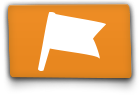
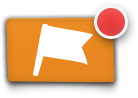
filter button switchy thinger. need moar jmapz.

diff --git a/belugapad/JMap.m b/belugapad/JMap.m
@@ -53,7 +53,7 @@ static CGPoint kStartMapPos={-611, 3713};
 const CGSize kLogOutBtnSize = { 80.0f, 33.0f };
 static CGRect debugButtonBounds={{950, 0}, {100, 50}};
 
-typedef enum {
+typedef enum  {
     kJuiStateNodeMap,
     kJuiStateNodeSliceTransition,
     kJuiStateNodeSlice
@@ -351,7 +351,14 @@ typedef enum {
     [foreLayer addChild:topsprite];
     
     //filter button
-    filterButtonSprite=[CCSprite spriteWithFile:BUNDLE_FULL_PATH(@"/images/jmap/flag_button_orange.png")];
+    filterButtonType=@"";
+    if(filterTotalFlagCount>9)
+        filterButtonType=@"2";
+    
+    NSString *filterButtonFileName=[NSString stringWithFormat:@"/images/jmap/flag_button_orange%@.png", filterButtonType];
+    
+    filterButtonSprite=[CCSprite spriteWithFile:BUNDLE_FULL_PATH(filterButtonFileName)];
+    
     [filterButtonSprite setPosition:ccp(cx+200, 2*cy-(65.0f/2))];
     [foreLayer addChild:filterButtonSprite];
 }
@@ -1525,6 +1532,14 @@ typedef enum {
     else
     {
         filteredToAssignedNodes=YES;
+        
+        filterButtonType=@"";
+        if(filterTotalFlagCount>9)
+            filterButtonType=@"2";
+        
+        NSString *filterButtonFileName=[NSString stringWithFormat:@"/images/jmap/flag_button_in%@.png", filterButtonType];
+        
+        [filterButtonSprite setTexture:[[CCTextureCache sharedTextureCache] addImage: BUNDLE_FULL_PATH(filterButtonFileName)]];
         [ac.searchBar becomeFirstResponder];
     }
     

diff --git a/belugapad/JMap.h b/belugapad/JMap.h
@@ -45,6 +45,7 @@
     BOOL showingFilter;
     CCSprite *filterButtonSprite;
     int filterTotalFlagCount;
+    NSString *filterButtonType;
     
     AppController *ac;
     
